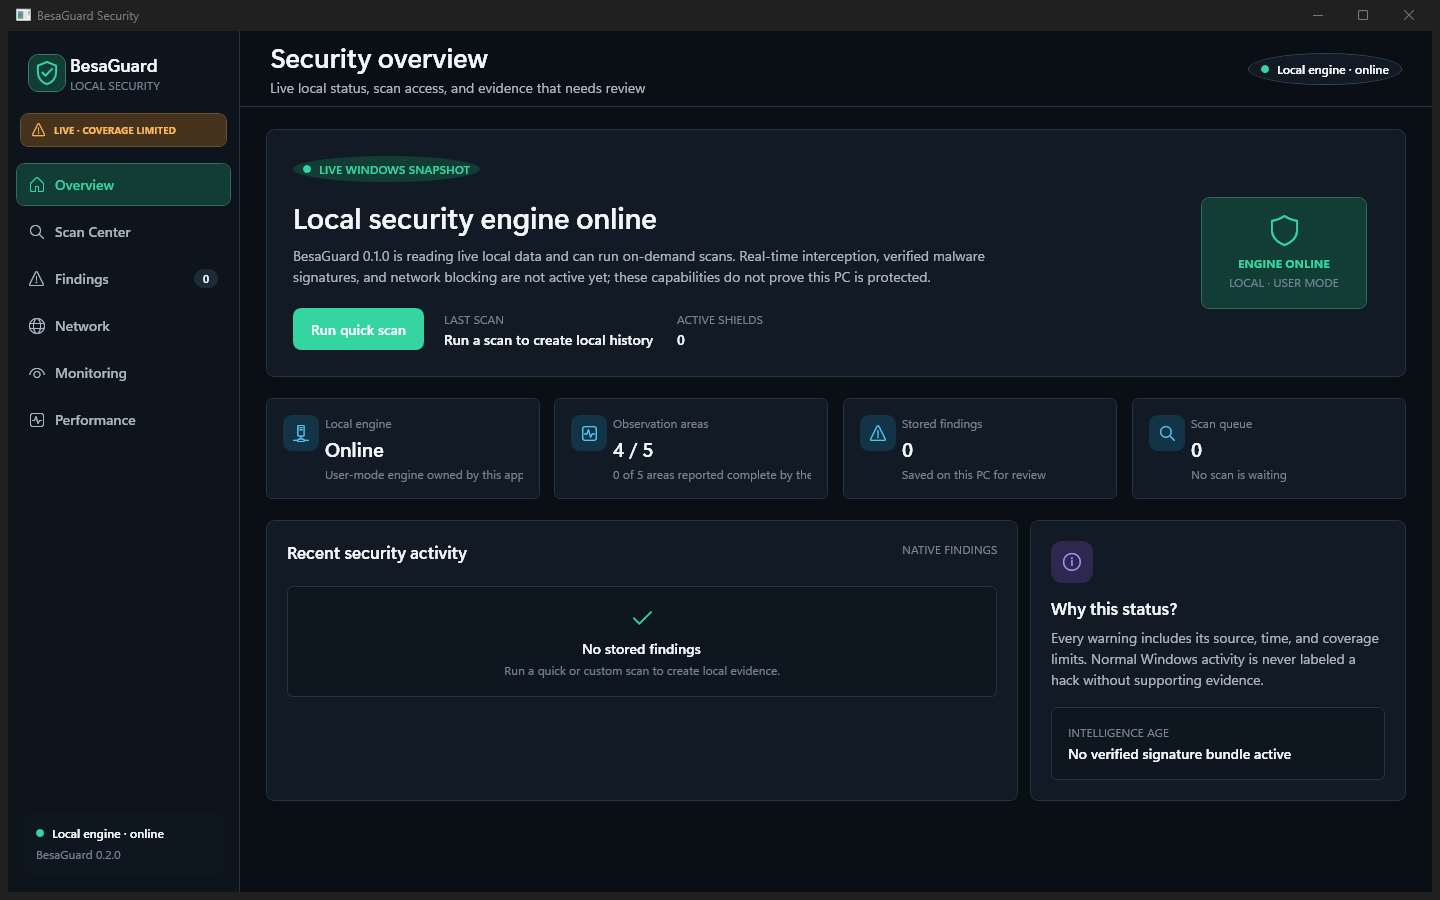
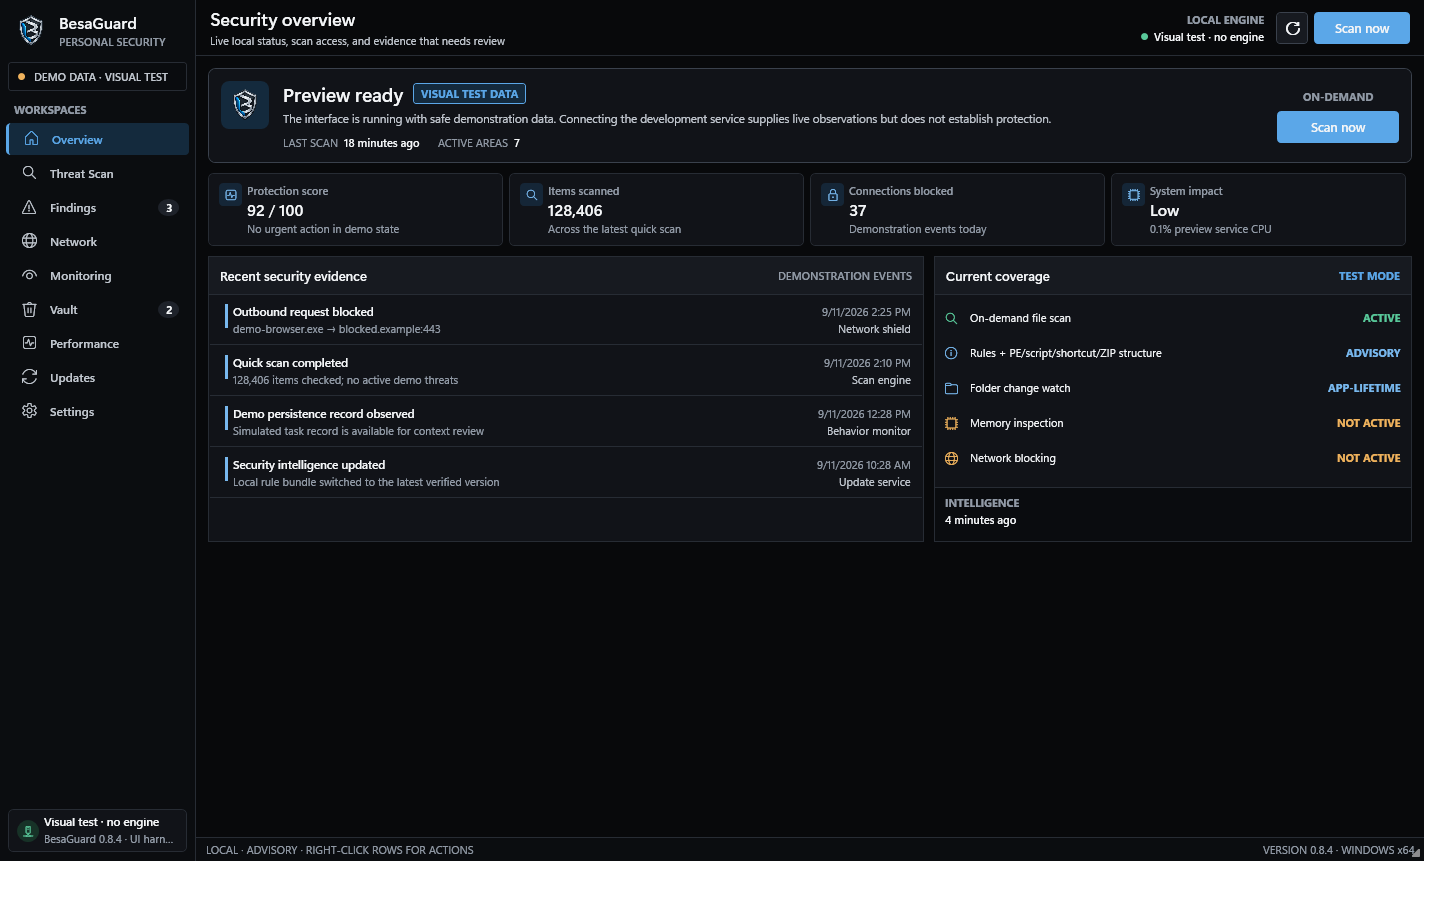
Publish-0.8.4-installer-experience

diff --git a/README.md b/README.md
@@ -15,9 +15,9 @@ BesaGuard is a compact native Windows security workbench from promptedteam. The 
 
 ## Download
 
-Download **BesaGuard-0.8.3-win-x64.zip** from the [latest release](https://github.com/promptedteam/BesaGuard/releases/latest), verify its SHA-256 against `SHA256SUMS.txt`, extract the complete folder, and double-click `BesaGuard.exe`.
+Download **BesaGuard-Setup-0.8.4-win-x64.exe** from the [latest release](https://github.com/promptedteam/BesaGuard/releases/latest), verify its SHA-256 against `SHA256SUMS.txt`, and run the installation wizard.
 
-The beta is a framework-dependent portable Windows x64 build and requires the .NET 10 Desktop Runtime. It does not install a driver or Windows service. Keep every extracted file together.
+The wizard installs BesaGuard for the current Windows user, creates a Start Menu shortcut, offers an optional desktop shortcut, and provides normal uninstall support. If the .NET 10 Desktop Runtime is missing, Setup offers to download the official Microsoft runtime. It does not install a driver or Windows service.
 
 ## Screenshots
 
@@ -25,23 +25,28 @@ The beta is a framework-dependent portable Windows x64 build and requires the .N
 
 ![BesaGuard security overview](docs/images/security-overview.png)
 
-### Live scan
+### Threat scan
 
-![BesaGuard live scan](docs/images/live-scan.png)
+![BesaGuard threat scan](docs/images/threat-scan.png)
 
-### Custom scan selection
+### Findings
 
-![BesaGuard custom scan selection](docs/images/custom-scan.png)
+![BesaGuard findings](docs/images/findings.png)
+
+### Updates and installed version
+
+![BesaGuard updates](docs/images/updates.png)
 
 ## What works in this beta
 
-- Native Windows desktop UI with custom icon, compact layouts, tray controls, contextual right-click actions, and reboot-safe build reminder.
+- Native Windows desktop UI with custom icon, compact layouts, tray controls, and contextual right-click actions.
 - High-risk, fixed-drive, custom-folder, and single-file scans through the bundled Rust host.
 - A verified 10-rule BesaGuard advisory catalog combined with bounded PE, script/command, shortcut, and ZIP metadata analysis.
 - Persistent findings and explicit incomplete-coverage reporting.
 - Bounded file-change, process/network, Windows event, session, and performance observations while the app runs.
 - User-requested AES-256-GCM encrypted holding copies; originals are retained, so this is not production quarantine.
-- Live in-app beta checks, SHA-256-verified portable downloads, and an explicit Open Downloads action. Packages are never silently executed.
+- Automatic startup checks against the public beta manifest, a toolbar download indicator shown only for a newer build, SHA-256-verified installer downloads, and an explicit Open Downloads action. Installers are never silently executed.
+- Installed build version shown in the app footer and Updates page.
 - Optional current-user Windows startup, minimized to the tray, so bounded app-lifetime observations can begin after sign-in without installing a service.
 - Bounded tray notifications for newly observed medium-or-higher scanner findings; clicking a notification opens Findings, and no automatic response is implied.
 
@@ -49,7 +54,7 @@ The package does **not** claim cloud reputation, kernel/minifilter interception,
 
 ## Privacy
 
-BesaGuard's beta workflows are local. Findings and encrypted holding data are stored under the current user's `%LocalAppData%\BesaGuard` directory. The app contacts GitHub only when the user presses the update button. See [PRIVACY.md](PRIVACY.md).
+BesaGuard's beta workflows are local. Findings and encrypted holding data are stored under the current user's `%LocalAppData%\BesaGuard` directory. The app contacts GitHub once after startup to check the beta manifest and again only when the user requests a download. See [PRIVACY.md](PRIVACY.md).
 
 ## Distribution and source
 

diff --git a/PRIVACY.md b/PRIVACY.md
@@ -2,6 +2,6 @@
 
 BesaGuard performs its current scanning and observation workflows locally on the computer. Findings, preferences, development telemetry snapshots, and encrypted holding copies remain under the current user's `%LocalAppData%\BesaGuard` directory.
 
-The application contacts the public `promptedteam/BesaGuard` GitHub repository only after the user presses **Check now** or **Download update** on the Updates page. That request is subject to GitHub's own privacy terms and normal network logging. BesaGuard does not upload scanned files, findings, file paths, or holding-vault contents through its update channel.
+The application contacts the public `promptedteam/BesaGuard` GitHub repository once after startup to read the small beta update manifest. It contacts GitHub again only if the user presses **Check again** or explicitly downloads an available installer. Those requests are subject to GitHub's own privacy terms and normal network logging. BesaGuard does not upload scanned files, findings, file paths, or holding-vault contents through its update channel.
 
-This statement applies to the 0.8.3 personal-core beta and may be revised if future features change its data flows.
+This statement applies to the 0.8.4 personal-core beta and may be revised if future features change its data flows.
